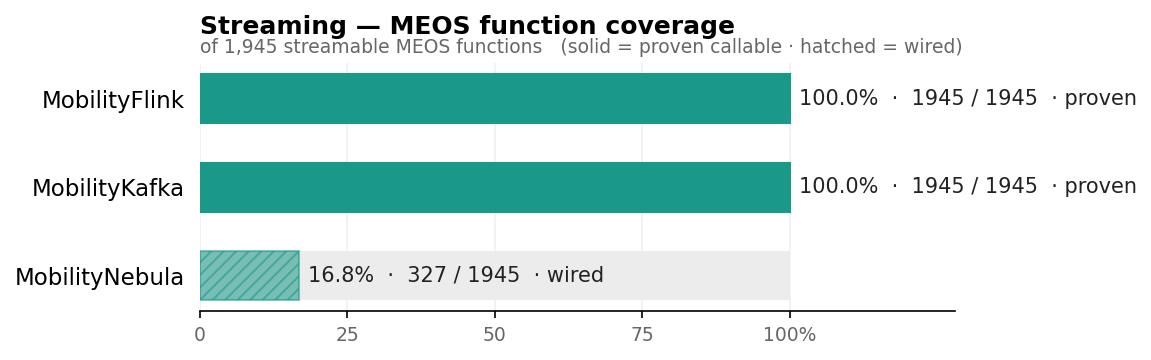
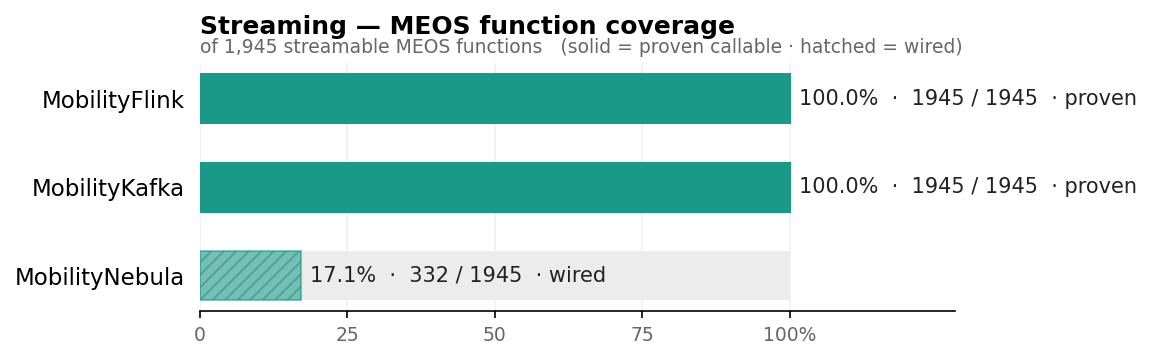
docs(streaming): NebulaStream 332 / 1,945 wired (17.1%), 43 systest-confirmed
Regenerate the streaming-coverage figure and table: 332 wired (17.1%), 43
confirmed callable via end-to-end systests (adds the single-argument
temporal-transform value-output family).

Changed region(s): [[0.2433, 0.7333, 0.5474, 0.7944]]

diff --git a/profile/images/coverage_charts.py b/profile/images/coverage_charts.py
@@ -56,7 +56,7 @@ hbar(
     [
         ("MobilityFlink",  100.0, "100.0%  ·  1945 / 1945  · proven", "#1a9988", True),
         ("MobilityKafka",  100.0, "100.0%  ·  1945 / 1945  · proven", "#1a9988", True),
-        ("MobilityNebula",  16.8, "16.8%  ·  327 / 1945  · wired",    "#1a9988", False),
+        ("MobilityNebula",  17.1, "17.1%  ·  332 / 1945  · wired",    "#1a9988", False),
     ],
     "of 1,945 streamable MEOS functions   (solid = proven callable · hatched = wired)",
 )

diff --git a/profile/streaming-parity.md b/profile/streaming-parity.md
@@ -18,7 +18,7 @@ deploy on real workloads?* — with reproducible evidence rather than assertion.
 
 Coverage of the **1,945 streamable MEOS functions** — confirmed callable on a real `libmeos`:
 
-<img src="https://raw.githubusercontent.com/MobilityDB/.github/main/profile/images/streaming-coverage.png?v=12" width="760" alt="Streaming MEOS function coverage of 1,945 streamable functions: MobilityFlink 100.0% (1945/1945, proven callable), MobilityKafka 100.0% (1945/1945, proven callable), MobilityNebula 16.8% (327/1945, wired)" />
+<img src="https://raw.githubusercontent.com/MobilityDB/.github/main/profile/images/streaming-coverage.png?v=13" width="760" alt="Streaming MEOS function coverage of 1,945 streamable functions: MobilityFlink 100.0% (1945/1945, proven callable), MobilityKafka 100.0% (1945/1945, proven callable), MobilityNebula 17.1% (332/1945, wired)" />
 
 - **Correctness** — all **9 BerlinMOD queries × 3 streaming forms = 27/27 cells** reproduce the batch result on every platform; the Flink snapshot output is **byte-identical** to the batch oracle.
 
@@ -55,7 +55,7 @@ Three layers, increasing in strength:
 |---|--:|--:|--:|
 | **MobilityFlink**  | **1,945 callable** | 1,945 | **100.0 %** |
 | **MobilityKafka**  | **1,945 callable** | 1,945 | **100.0 %** |
-| **MobilityNebula** | 38 systest-confirmed | 327 wired · compile-verified | 16.8 % wired |
+| **MobilityNebula** | 43 systest-confirmed | 332 wired · compile-verified | 17.1 % wired |
 
 Flink and Kafka share one generated JNR-FFI facade, so their callability is identical;
 it is confirmed by a type-aware per-method harness that invokes **every** facade method
